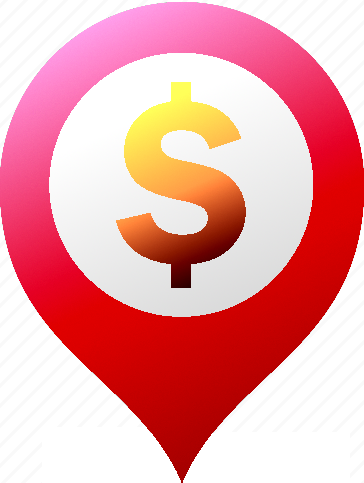
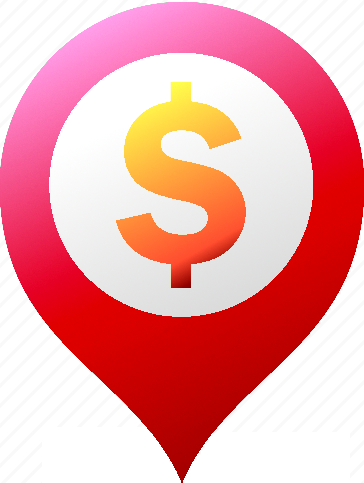
moved global parameters and default values to local storage, polished the markers and made the view data map smaller

Changed region(s): [[0.3324, 0.3727, 0.6951, 0.6211]]

diff --git a/src/default-data/DefaultGlobalData.jsx b/src/default-data/DefaultGlobalData.jsx
@@ -1,15 +1,51 @@
-// src/context/FarmersContext.jsx
-import { createContext, useContext, useState } from 'react';
+import { createContext, useContext, useState, useEffect } from 'react';
 import farmersData from './default-farmers.json';
 import buyersData from './default-buyers.json';
 import defaultData from './global-parameters.json';
 
 const GlobalContext = createContext();
 
+const LOCAL_KEYS = {
+  farmers: 'app_farmers',
+  buyers: 'app_buyers',
+  global: 'app_global',
+};
+
+const loadFromLocalStorage = (key, defaultValue) => {
+  try {
+    const data = localStorage.getItem(key);
+    return data ? JSON.parse(data) : defaultValue;
+  } catch (err) {
+    console.error(`Failed to load ${key} from localStorage`, err);
+    return defaultValue;
+  }
+};
+
 export const GlobalProvider = ({ children }) => {
-  const [farmers, setFarmers] = useState(farmersData);
-  const [buyers, setBuyers] = useState(buyersData);
-  const [global, setGlobal] = useState(defaultData);
+  const [farmers, setFarmers] = useState(() =>
+    loadFromLocalStorage(LOCAL_KEYS.farmers, farmersData)
+  );
+
+  const [buyers, setBuyers] = useState(() =>
+    loadFromLocalStorage(LOCAL_KEYS.buyers, buyersData)
+  );
+
+  const [global, setGlobal] = useState(() =>
+    loadFromLocalStorage(LOCAL_KEYS.global, defaultData)
+  );
+
+  // Sync to localStorage whenever data changes
+  useEffect(() => {
+    localStorage.setItem(LOCAL_KEYS.farmers, JSON.stringify(farmers));
+  }, [farmers]);
+
+  useEffect(() => {
+    localStorage.setItem(LOCAL_KEYS.buyers, JSON.stringify(buyers));
+  }, [buyers]);
+
+  useEffect(() => {
+    localStorage.setItem(LOCAL_KEYS.global, JSON.stringify(global));
+  }, [global]);
 
   return (
     <GlobalContext.Provider value={{ farmers, setFarmers, buyers, setBuyers, global, setGlobal }}>

diff --git a/src/pages/ViewData/ViewData.jsx b/src/pages/ViewData/ViewData.jsx
@@ -10,11 +10,11 @@ function ViewData() {
   return(
     <>
       <NavBar></NavBar>
-      <div className="w-auto p-10 shadow-lg mb-10 h-auto rounded-2xl">
+      <div className="w-auto p-2 shadow-lg m-10 h-auto rounded-md">
         <DisplayLocation farmers={farmers} buyers={buyers} />
       </div>
-      <ListFarmers></ListFarmers>
-      <ListBuyers></ListBuyers>
+      <ListFarmers/>
+      <ListBuyers/>
     </>
   );
 }
